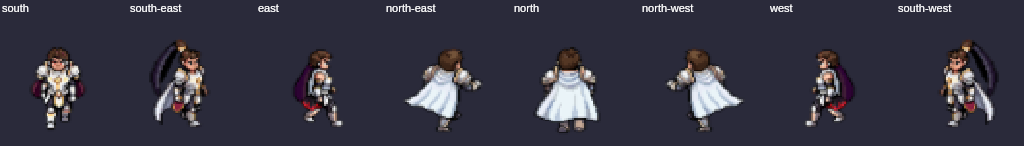
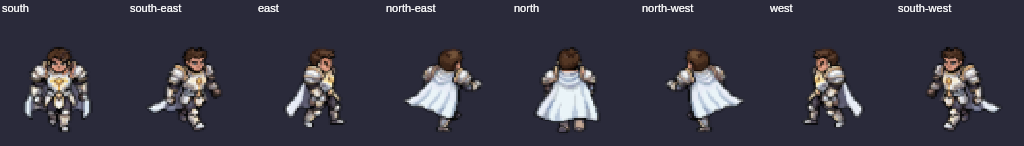
fix(art olstein·圣盾): 走路全部改 v3 — 消除辫子/紫斗篷/红裙串色 (v212)
上线版侧向走路(SE/SW/E/W)被 walking 模板串了别人的身份：头顶长辫子、
斗篷变紫、裙子变红。根因=用了模板动画(管线本该 v3)。
- 全 8 走路源向改 v3(锚定旋转图)重生成，逐向放大(250px)目视：全向白袍圣骑士、
  短发无辫、白斗篷、白金甲，身份/配色一致、无多余部件。
- idle 仍合成呼吸(0px)、cast_light v3。artgate idle 全向 0px。

Claude-Session: https://claude.ai/code/session_01QGRynvBqtept4T7sdccom5

diff --git a/index.html b/index.html
@@ -5,39 +5,39 @@
   <meta name="viewport" content="width=device-width, initial-scale=1.0, maximum-scale=1.0, user-scalable=no, viewport-fit=cover">
   <title>棕色尘埃 2 · Brown Dust 2</title>
   <!-- PWA / 添加到主屏幕（iOS 全屏关键） -->
-  <link rel="manifest" href="manifest.webmanifest?v=211">
+  <link rel="manifest" href="manifest.webmanifest?v=212">
   <meta name="theme-color" content="#1a1422">
   <meta name="mobile-web-app-capable" content="yes">
   <meta name="apple-mobile-web-app-capable" content="yes">
   <meta name="apple-mobile-web-app-status-bar-style" content="black-translucent">
   <meta name="apple-mobile-web-app-title" content="棕色尘埃2">
-  <link rel="apple-touch-icon" href="icons/apple-touch-icon.png?v=211">
-  <link rel="icon" type="image/png" href="icons/icon-192.png?v=211">
-  <link rel="stylesheet" href="css/style.css?v=211">
+  <link rel="apple-touch-icon" href="icons/apple-touch-icon.png?v=212">
+  <link rel="icon" type="image/png" href="icons/icon-192.png?v=212">
+  <link rel="stylesheet" href="css/style.css?v=212">
 </head>
 <body>
   <div id="app">
     <!-- 顶部栏：玩家信息 + 资源 + 系统 -->
     <header id="topbar">
       <button id="topbar-profile" class="profile-chip" title="玩家资料">
-        <span class="pc-avatar"><img src="art/01_splash/lecliss_avatar.png?v=211" alt="" onerror="this.outerHTML='🎖'"></span>
+        <span class="pc-avatar"><img src="art/01_splash/lecliss_avatar.png?v=212" alt="" onerror="this.outerHTML='🎖'"></span>
         <span class="pc-info">
           <span class="pc-name" id="pc-name">指挥官</span>
           <span class="pc-sub">Lv.<span id="pc-lv">1</span> · ⚔<span id="pc-pow">0</span></span>
         </span>
       </button>
       <div class="resources">
-        <div class="res" title="金币"><span class="res-icon"><img class="px-ico-sm" src="art/05_pixellab/ui/icons/coin.png?v=211" alt="金"></span><span id="res-gold">0</span></div>
-        <div class="res" title="宝石"><span class="res-icon"><img class="px-ico-sm" src="art/05_pixellab/ui/icons/gem.png?v=211" alt="钻"></span><span id="res-gem">0</span></div>
-        <div class="res" title="觉醒石"><span class="res-icon"><img class="px-ico-sm" src="art/05_pixellab/ui/icons/awaken.png?v=211" alt="石"></span><span id="res-stone">0</span></div>
-        <div class="res" title="体力"><span class="res-icon"><img class="px-ico-sm" src="art/05_pixellab/ui/icons/stamina.png?v=211" alt="力"></span><span id="res-stam">0</span></div>
+        <div class="res" title="金币"><span class="res-icon"><img class="px-ico-sm" src="art/05_pixellab/ui/icons/coin.png?v=212" alt="金"></span><span id="res-gold">0</span></div>
+        <div class="res" title="宝石"><span class="res-icon"><img class="px-ico-sm" src="art/05_pixellab/ui/icons/gem.png?v=212" alt="钻"></span><span id="res-gem">0</span></div>
+        <div class="res" title="觉醒石"><span class="res-icon"><img class="px-ico-sm" src="art/05_pixellab/ui/icons/awaken.png?v=212" alt="石"></span><span id="res-stone">0</span></div>
+        <div class="res" title="体力"><span class="res-icon"><img class="px-ico-sm" src="art/05_pixellab/ui/icons/stamina.png?v=212" alt="力"></span><span id="res-stam">0</span></div>
       </div>
       <div class="topbar-sys">
-        <button id="btn-notice" class="ghost-btn" title="公告"><img class="px-ico-sys" src="art/05_pixellab/ui/icons/notice.png?v=211" alt="公告"></button>
-        <button id="btn-mail" class="ghost-btn" title="邮件"><span class="dot-wrap"><img class="px-ico-sys" src="art/05_pixellab/ui/icons/mail.png?v=211" alt="邮件"><span id="mail-dot" class="red-dot" style="display:none;"></span></span></button>
-        <button id="btn-settings" class="ghost-btn" title="设置"><img class="px-ico-sys" src="art/05_pixellab/ui/icons/settings.png?v=211" alt="设置"></button>
-        <button id="btn-fullscreen" class="ghost-btn" title="全屏"><img class="px-ico-sys" src="art/05_pixellab/ui/icons/fullscreen.png?v=211" alt="全屏"></button>
-        <button id="btn-mute" class="ghost-btn" title="音效开关"><img class="px-ico-sys" src="art/05_pixellab/ui/icons/sound.png?v=211" alt="音效"></button>
+        <button id="btn-notice" class="ghost-btn" title="公告"><img class="px-ico-sys" src="art/05_pixellab/ui/icons/notice.png?v=212" alt="公告"></button>
+        <button id="btn-mail" class="ghost-btn" title="邮件"><span class="dot-wrap"><img class="px-ico-sys" src="art/05_pixellab/ui/icons/mail.png?v=212" alt="邮件"><span id="mail-dot" class="red-dot" style="display:none;"></span></span></button>
+        <button id="btn-settings" class="ghost-btn" title="设置"><img class="px-ico-sys" src="art/05_pixellab/ui/icons/settings.png?v=212" alt="设置"></button>
+        <button id="btn-fullscreen" class="ghost-btn" title="全屏"><img class="px-ico-sys" src="art/05_pixellab/ui/icons/fullscreen.png?v=212" alt="全屏"></button>
+        <button id="btn-mute" class="ghost-btn" title="音效开关"><img class="px-ico-sys" src="art/05_pixellab/ui/icons/sound.png?v=212" alt="音效"></button>
         <button id="btn-reset" class="ghost-btn" title="重置存档" style="display:none;">↺</button>
       </div>
     </header>
@@ -70,20 +70,20 @@
     </div>
   </div>
 
-  <script>window.ASSET_VER = '211';</script>
-  <script src="js/audio.js?v=211"></script>
-  <script src="js/data.js?v=211"></script>
-  <script src="js/balance.js?v=211"></script>
-  <script src="js/budget.js?v=211"></script>
-  <script src="js/lore.js?v=211"></script>
-  <script src="js/gear.js?v=211"></script>
-  <script src="js/costumes.js?v=211"></script>
-  <script src="js/game.js?v=211"></script>
-  <script src="js/battle.js?v=211"></script>
-  <script src="js/ui.js?v=211"></script>
-  <script src="js/story.js?v=211"></script>
-  <script src="js/comic.js?v=211"></script>
-  <script src="js/world.js?v=211"></script>
-  <script src="js/main.js?v=211"></script>
+  <script>window.ASSET_VER = '212';</script>
+  <script src="js/audio.js?v=212"></script>
+  <script src="js/data.js?v=212"></script>
+  <script src="js/balance.js?v=212"></script>
+  <script src="js/budget.js?v=212"></script>
+  <script src="js/lore.js?v=212"></script>
+  <script src="js/gear.js?v=212"></script>
+  <script src="js/costumes.js?v=212"></script>
+  <script src="js/game.js?v=212"></script>
+  <script src="js/battle.js?v=212"></script>
+  <script src="js/ui.js?v=212"></script>
+  <script src="js/story.js?v=212"></script>
+  <script src="js/comic.js?v=212"></script>
+  <script src="js/world.js?v=212"></script>
+  <script src="js/main.js?v=212"></script>
 </body>
 </html>

diff --git a/game.html b/game.html
@@ -5,14 +5,14 @@
   <meta name="viewport" content="width=device-width, initial-scale=1.0, maximum-scale=1.0, user-scalable=no, viewport-fit=cover">
   <title>棕色尘埃 2 · Brown Dust 2</title>
   <!-- PWA / 添加到主屏幕（iOS 全屏关键） -->
-  <link rel="manifest" href="manifest.webmanifest?v=211">
+  <link rel="manifest" href="manifest.webmanifest?v=212">
   <meta name="theme-color" content="#1a1422">
   <meta name="mobile-web-app-capable" content="yes">
   <meta name="apple-mobile-web-app-capable" content="yes">
   <meta name="apple-mobile-web-app-status-bar-style" content="black-translucent">
   <meta name="apple-mobile-web-app-title" content="棕色尘埃2">
-  <link rel="apple-touch-icon" href="icons/apple-touch-icon.png?v=211">
-  <link rel="icon" type="image/png" href="icons/icon-192.png?v=211">
+  <link rel="apple-touch-icon" href="icons/apple-touch-icon.png?v=212">
+  <link rel="icon" type="image/png" href="icons/icon-192.png?v=212">
   <style>
 /* ============================================================
    棕色尘埃 2 风格 UI — 暗色奇幻风格
@@ -2431,24 +2431,24 @@ button.ac-circle:active { transform: scale(.92); }
     <!-- 顶部栏：玩家信息 + 资源 + 系统 -->
     <header id="topbar">
       <button id="topbar-profile" class="profile-chip" title="玩家资料">
-        <span class="pc-avatar"><img src="art/01_splash/lecliss_avatar.png?v=211" alt="" onerror="this.outerHTML='🎖'"></span>
+        <span class="pc-avatar"><img src="art/01_splash/lecliss_avatar.png?v=212" alt="" onerror="this.outerHTML='🎖'"></span>
         <span class="pc-info">
           <span class="pc-name" id="pc-name">指挥官</span>
           <span class="pc-sub">Lv.<span id="pc-lv">1</span> · ⚔<span id="pc-pow">0</span></span>
         </span>
       </button>
       <div class="resources">
-        <div class="res" title="金币"><span class="res-icon"><img class="px-ico-sm" src="art/05_pixellab/ui/icons/coin.png?v=211" alt="金"></span><span id="res-gold">0</span></div>
-        <div class="res" title="宝石"><span class="res-icon"><img class="px-ico-sm" src="art/05_pixellab/ui/icons/gem.png?v=211" alt="钻"></span><span id="res-gem">0</span></div>
-        <div class="res" title="觉醒石"><span class="res-icon"><img class="px-ico-sm" src="art/05_pixellab/ui/icons/awaken.png?v=211" alt="石"></span><span id="res-stone">0</span></div>
-        <div class="res" title="体力"><span class="res-icon"><img class="px-ico-sm" src="art/05_pixellab/ui/icons/stamina.png?v=211" alt="力"></span><span id="res-stam">0</span></div>
+        <div class="res" title="金币"><span class="res-icon"><img class="px-ico-sm" src="art/05_pixellab/ui/icons/coin.png?v=212" alt="金"></span><span id="res-gold">0</span></div>
+        <div class="res" title="宝石"><span class="res-icon"><img class="px-ico-sm" src="art/05_pixellab/ui/icons/gem.png?v=212" alt="钻"></span><span id="res-gem">0</span></div>
+        <div class="res" title="觉醒石"><span class="res-icon"><img class="px-ico-sm" src="art/05_pixellab/ui/icons/awaken.png?v=212" alt="石"></span><span id="res-stone">0</span></div>
+        <div class="res" title="体力"><span class="res-icon"><img class="px-ico-sm" src="art/05_pixellab/ui/icons/stamina.png?v=212" alt="力"></span><span id="res-stam">0</span></div>
       </div>
       <div class="topbar-sys">
-        <button id="btn-notice" class="ghost-btn" title="公告"><img class="px-ico-sys" src="art/05_pixellab/ui/icons/notice.png?v=211" alt="公告"></button>
-        <button id="btn-mail" class="ghost-btn" title="邮件"><span class="dot-wrap"><img class="px-ico-sys" src="art/05_pixellab/ui/icons/mail.png?v=211" alt="邮件"><span id="mail-dot" class="red-dot" style="display:none;"></span></span></button>
-        <button id="btn-settings" class="ghost-btn" title="设置"><img class="px-ico-sys" src="art/05_pixellab/ui/icons/settings.png?v=211" alt="设置"></button>
-        <button id="btn-fullscreen" class="ghost-btn" title="全屏"><img class="px-ico-sys" src="art/05_pixellab/ui/icons/fullscreen.png?v=211" alt="全屏"></button>
-        <button id="btn-mute" class="ghost-btn" title="音效开关"><img class="px-ico-sys" src="art/05_pixellab/ui/icons/sound.png?v=211" alt="音效"></button>
+        <button id="btn-notice" class="ghost-btn" title="公告"><img class="px-ico-sys" src="art/05_pixellab/ui/icons/notice.png?v=212" alt="公告"></button>
+        <button id="btn-mail" class="ghost-btn" title="邮件"><span class="dot-wrap"><img class="px-ico-sys" src="art/05_pixellab/ui/icons/mail.png?v=212" alt="邮件"><span id="mail-dot" class="red-dot" style="display:none;"></span></span></button>
+        <button id="btn-settings" class="ghost-btn" title="设置"><img class="px-ico-sys" src="art/05_pixellab/ui/icons/settings.png?v=212" alt="设置"></button>
+        <button id="btn-fullscreen" class="ghost-btn" title="全屏"><img class="px-ico-sys" src="art/05_pixellab/ui/icons/fullscreen.png?v=212" alt="全屏"></button>
+        <button id="btn-mute" class="ghost-btn" title="音效开关"><img class="px-ico-sys" src="art/05_pixellab/ui/icons/sound.png?v=212" alt="音效"></button>
         <button id="btn-reset" class="ghost-btn" title="重置存档" style="display:none;">↺</button>
       </div>
     </header>
@@ -2481,7 +2481,7 @@ button.ac-circle:active { transform: scale(.92); }
     </div>
   </div>
 
-  <script>window.ASSET_VER = '211';</script>
+  <script>window.ASSET_VER = '212';</script>
 <script>
 // ============================================================
 //  音频系统（纯 Web Audio 实时合成，无需任何音频素材文件）
